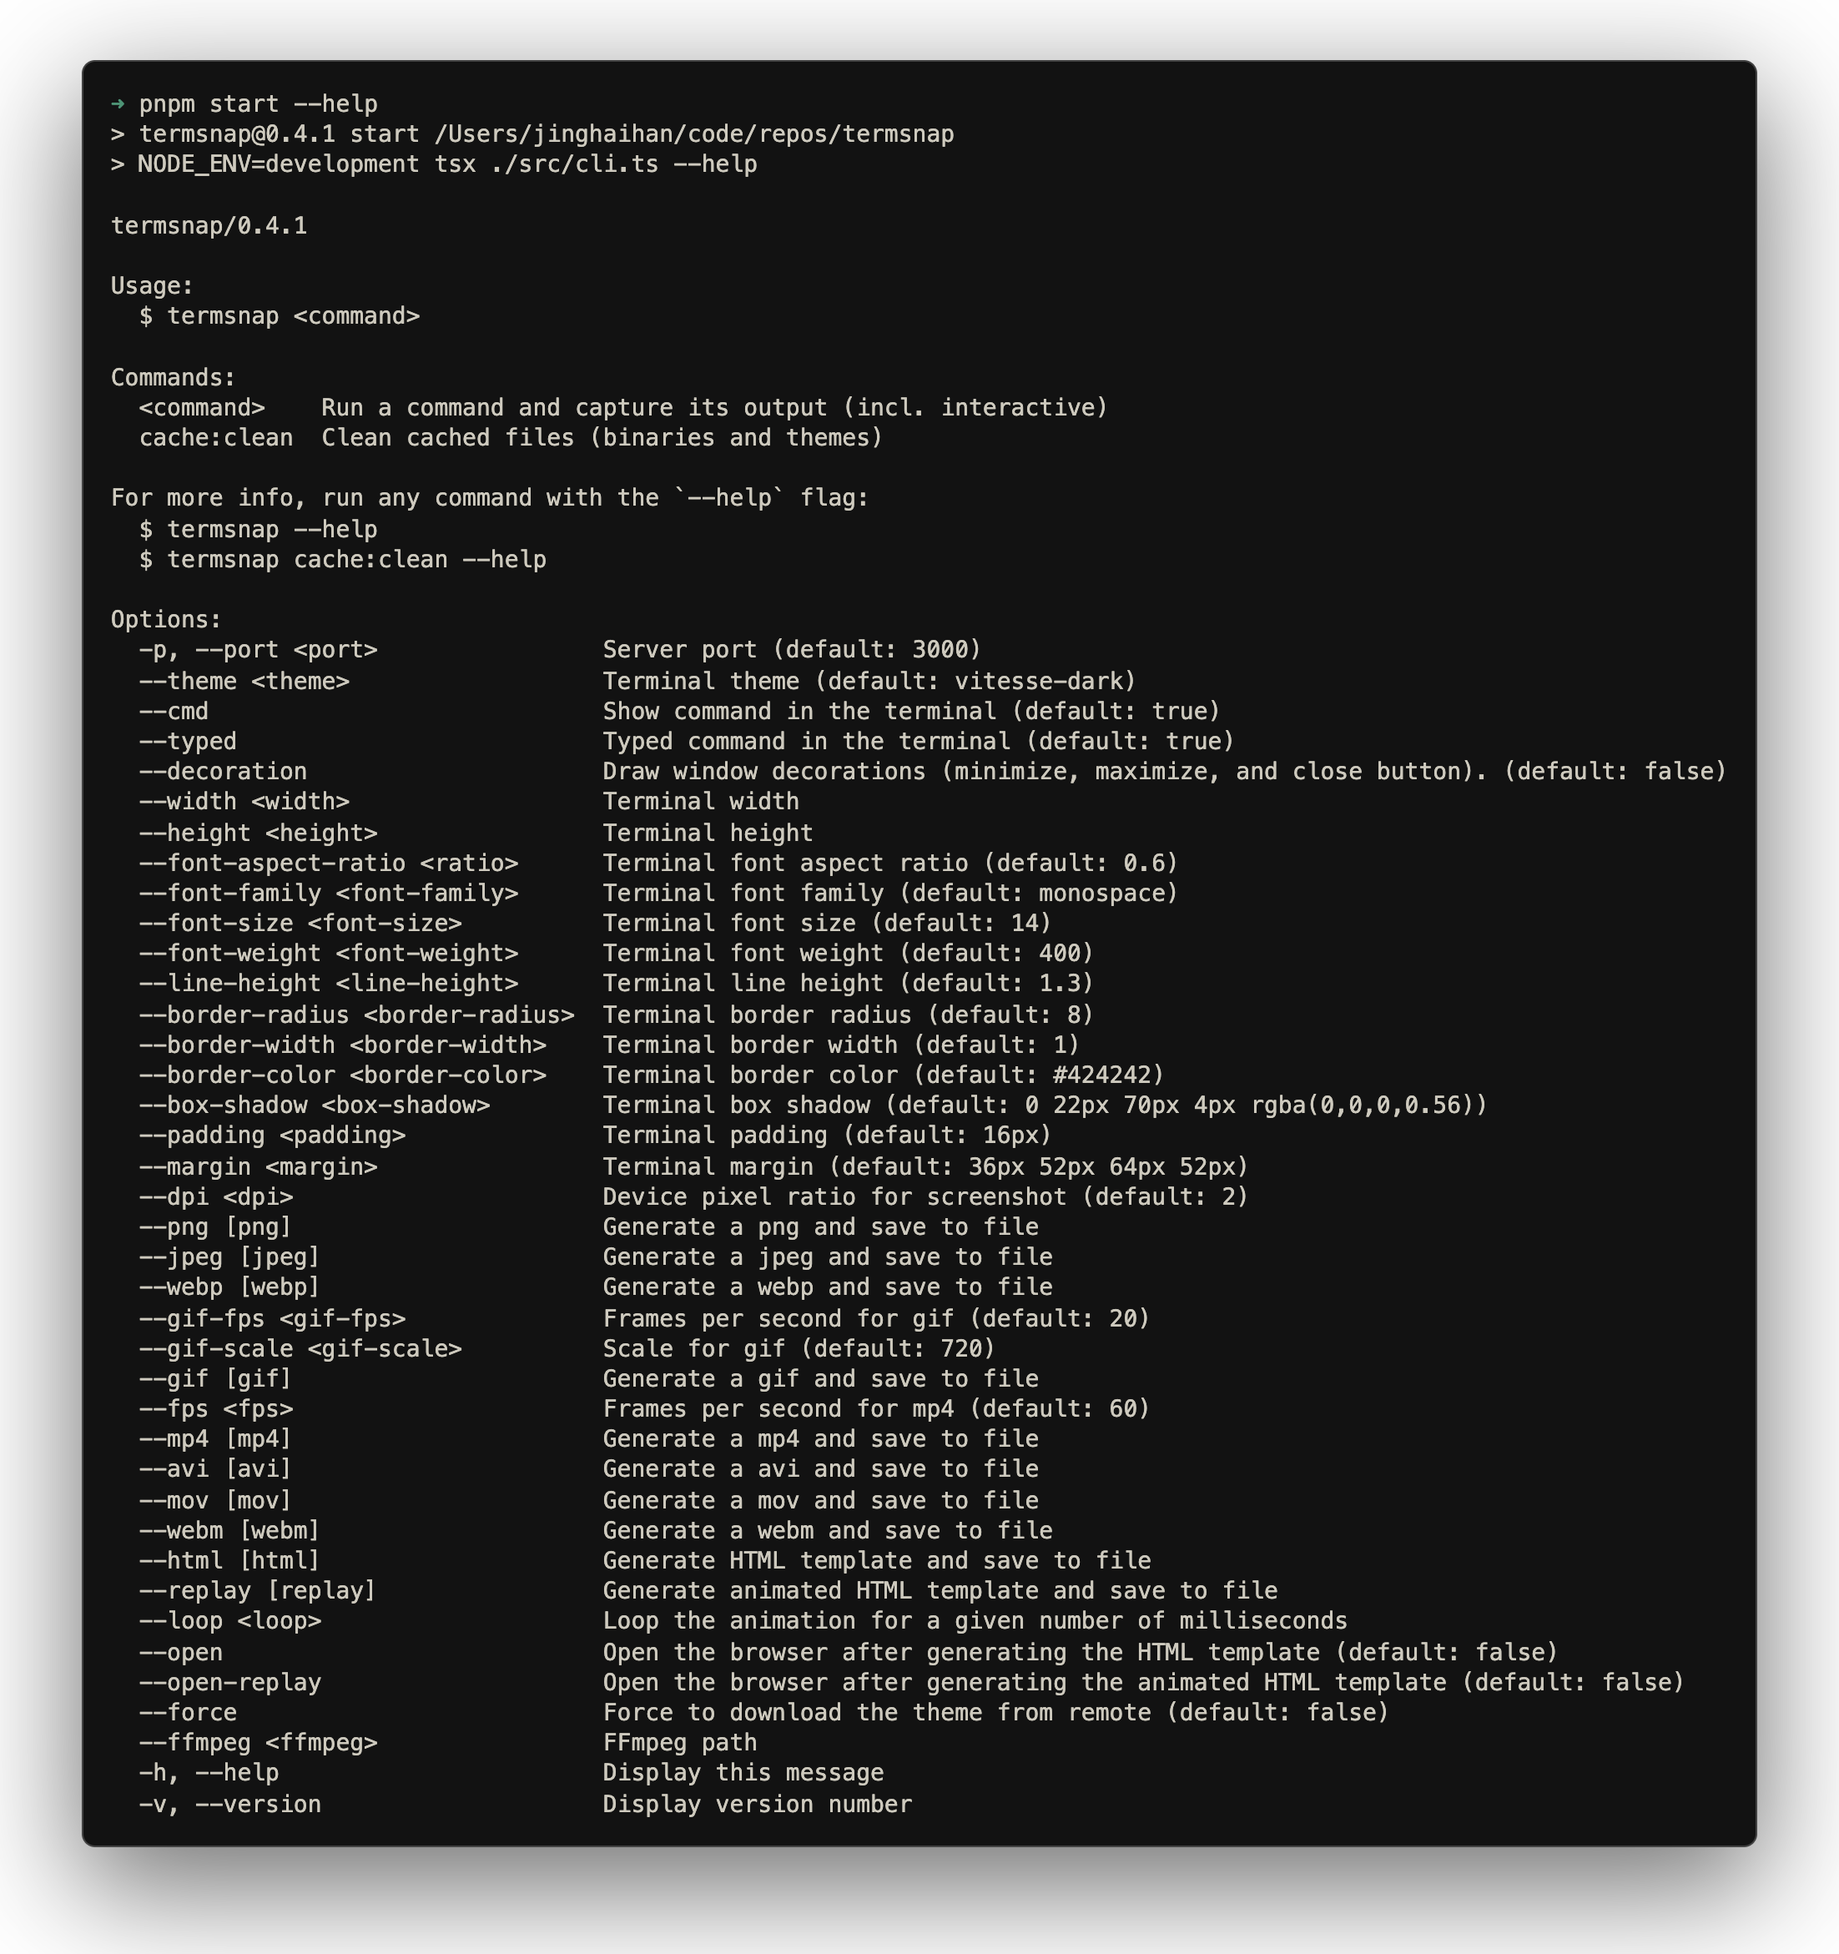
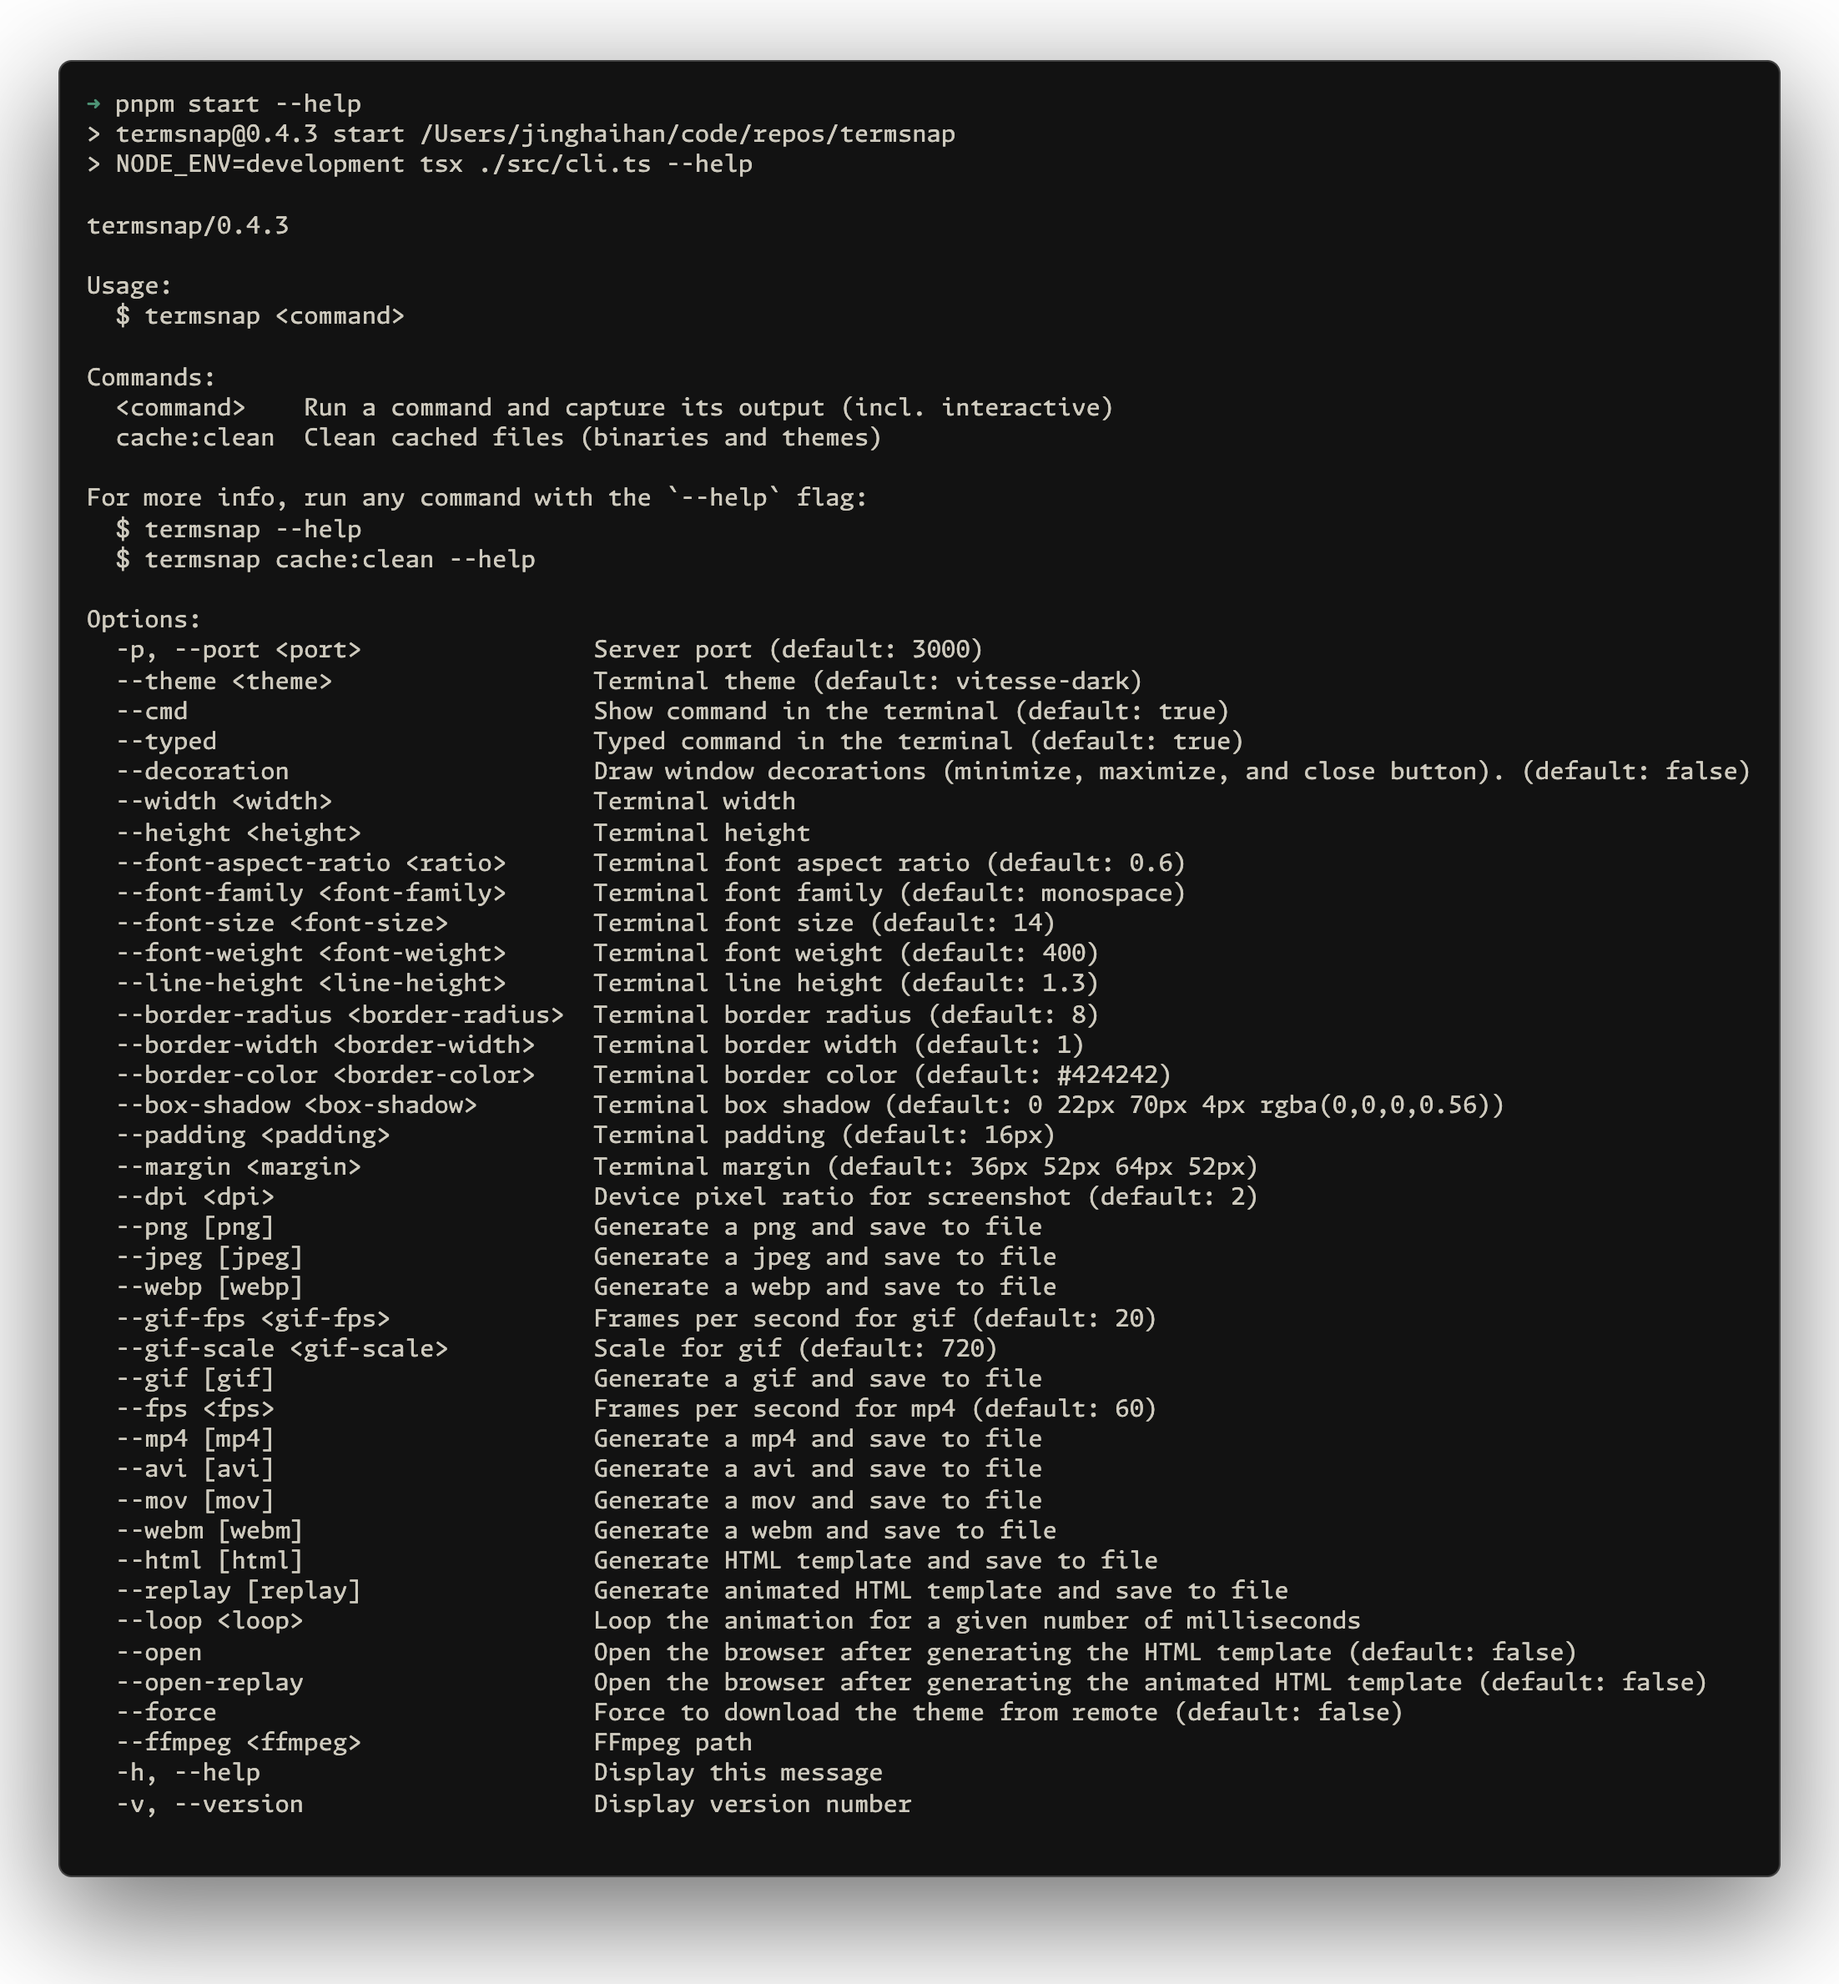
feat: enhance cache:clean command options

Changed region(s): [[0.0309, 0.0312, 0.9873, 0.9663], [0.5245, 0.187, 0.6171, 0.2182], [0.7713, 0.5299, 0.8022, 0.5611]]

diff --git a/src/cli.ts b/src/cli.ts
@@ -1,11 +1,12 @@
 import type { CAC } from 'cac'
-import type { CommandOptions } from './types'
+import type { CleanCommandOptions, CommandOptions } from './types'
 import process from 'node:process'
 import * as p from '@clack/prompts'
 import c from 'ansis'
 import { cac } from 'cac'
 import restoreCursor from 'restore-cursor'
 import { rimraf } from 'rimraf'
+import { glob } from 'tinyglobby'
 import { openInBroz } from './browser'
 import { resolveConfig } from './config'
 import { BINARY_STORAGE_DIR, THEME_CACHE_DIR } from './constants'
@@ -129,17 +130,33 @@ try {
 
   cli
     .command('cache:clean', 'Clean cached files (binaries and themes)')
-    .action(async () => {
+    .option('--bin', 'Clean binary cache', { default: true })
+    .option('--theme', 'Clean theme cache', { default: true })
+    .option('--keep', 'Keep current version binary cache', { default: true })
+    .action(async (options: CleanCommandOptions) => {
       intro()
 
       const spinner = p.spinner()
       spinner.start('Cleaning cache...')
 
-      spinner.message('Cleaning binary cache...')
-      await rimraf(BINARY_STORAGE_DIR)
+      if (options.bin) {
+        spinner.message('Cleaning binary cache...')
+        if (!options.keep) {
+          await rimraf(BINARY_STORAGE_DIR)
+        }
+        else {
+          const binaries = await glob(`${BINARY_STORAGE_DIR}/**`)
+          for (const binary of binaries) {
+            if (!binary.includes(`-v${VERSION}-`))
+              await rimraf(binary)
+          }
+        }
+      }
 
-      spinner.message('Cleaning theme cache...')
-      await rimraf(THEME_CACHE_DIR)
+      if (options.theme) {
+        spinner.message('Cleaning theme cache...')
+        await rimraf(THEME_CACHE_DIR)
+      }
 
       spinner.stop('Cleaning completed')
       p.outro(c.green`Done!`)

diff --git a/src/types/core.ts b/src/types/core.ts
@@ -171,3 +171,9 @@ export interface TerminalSnapshot {
   height: number
   timestamp?: number
 }
+
+export interface CleanCommandOptions {
+  bin?: boolean
+  theme?: boolean
+  keep?: boolean
+}

diff --git a/pncat.config.ts b/pncat.config.ts
@@ -37,4 +37,5 @@ export default defineConfig({
       ],
     },
   ]),
+  postRun: 'eslint --fix .',
 })
